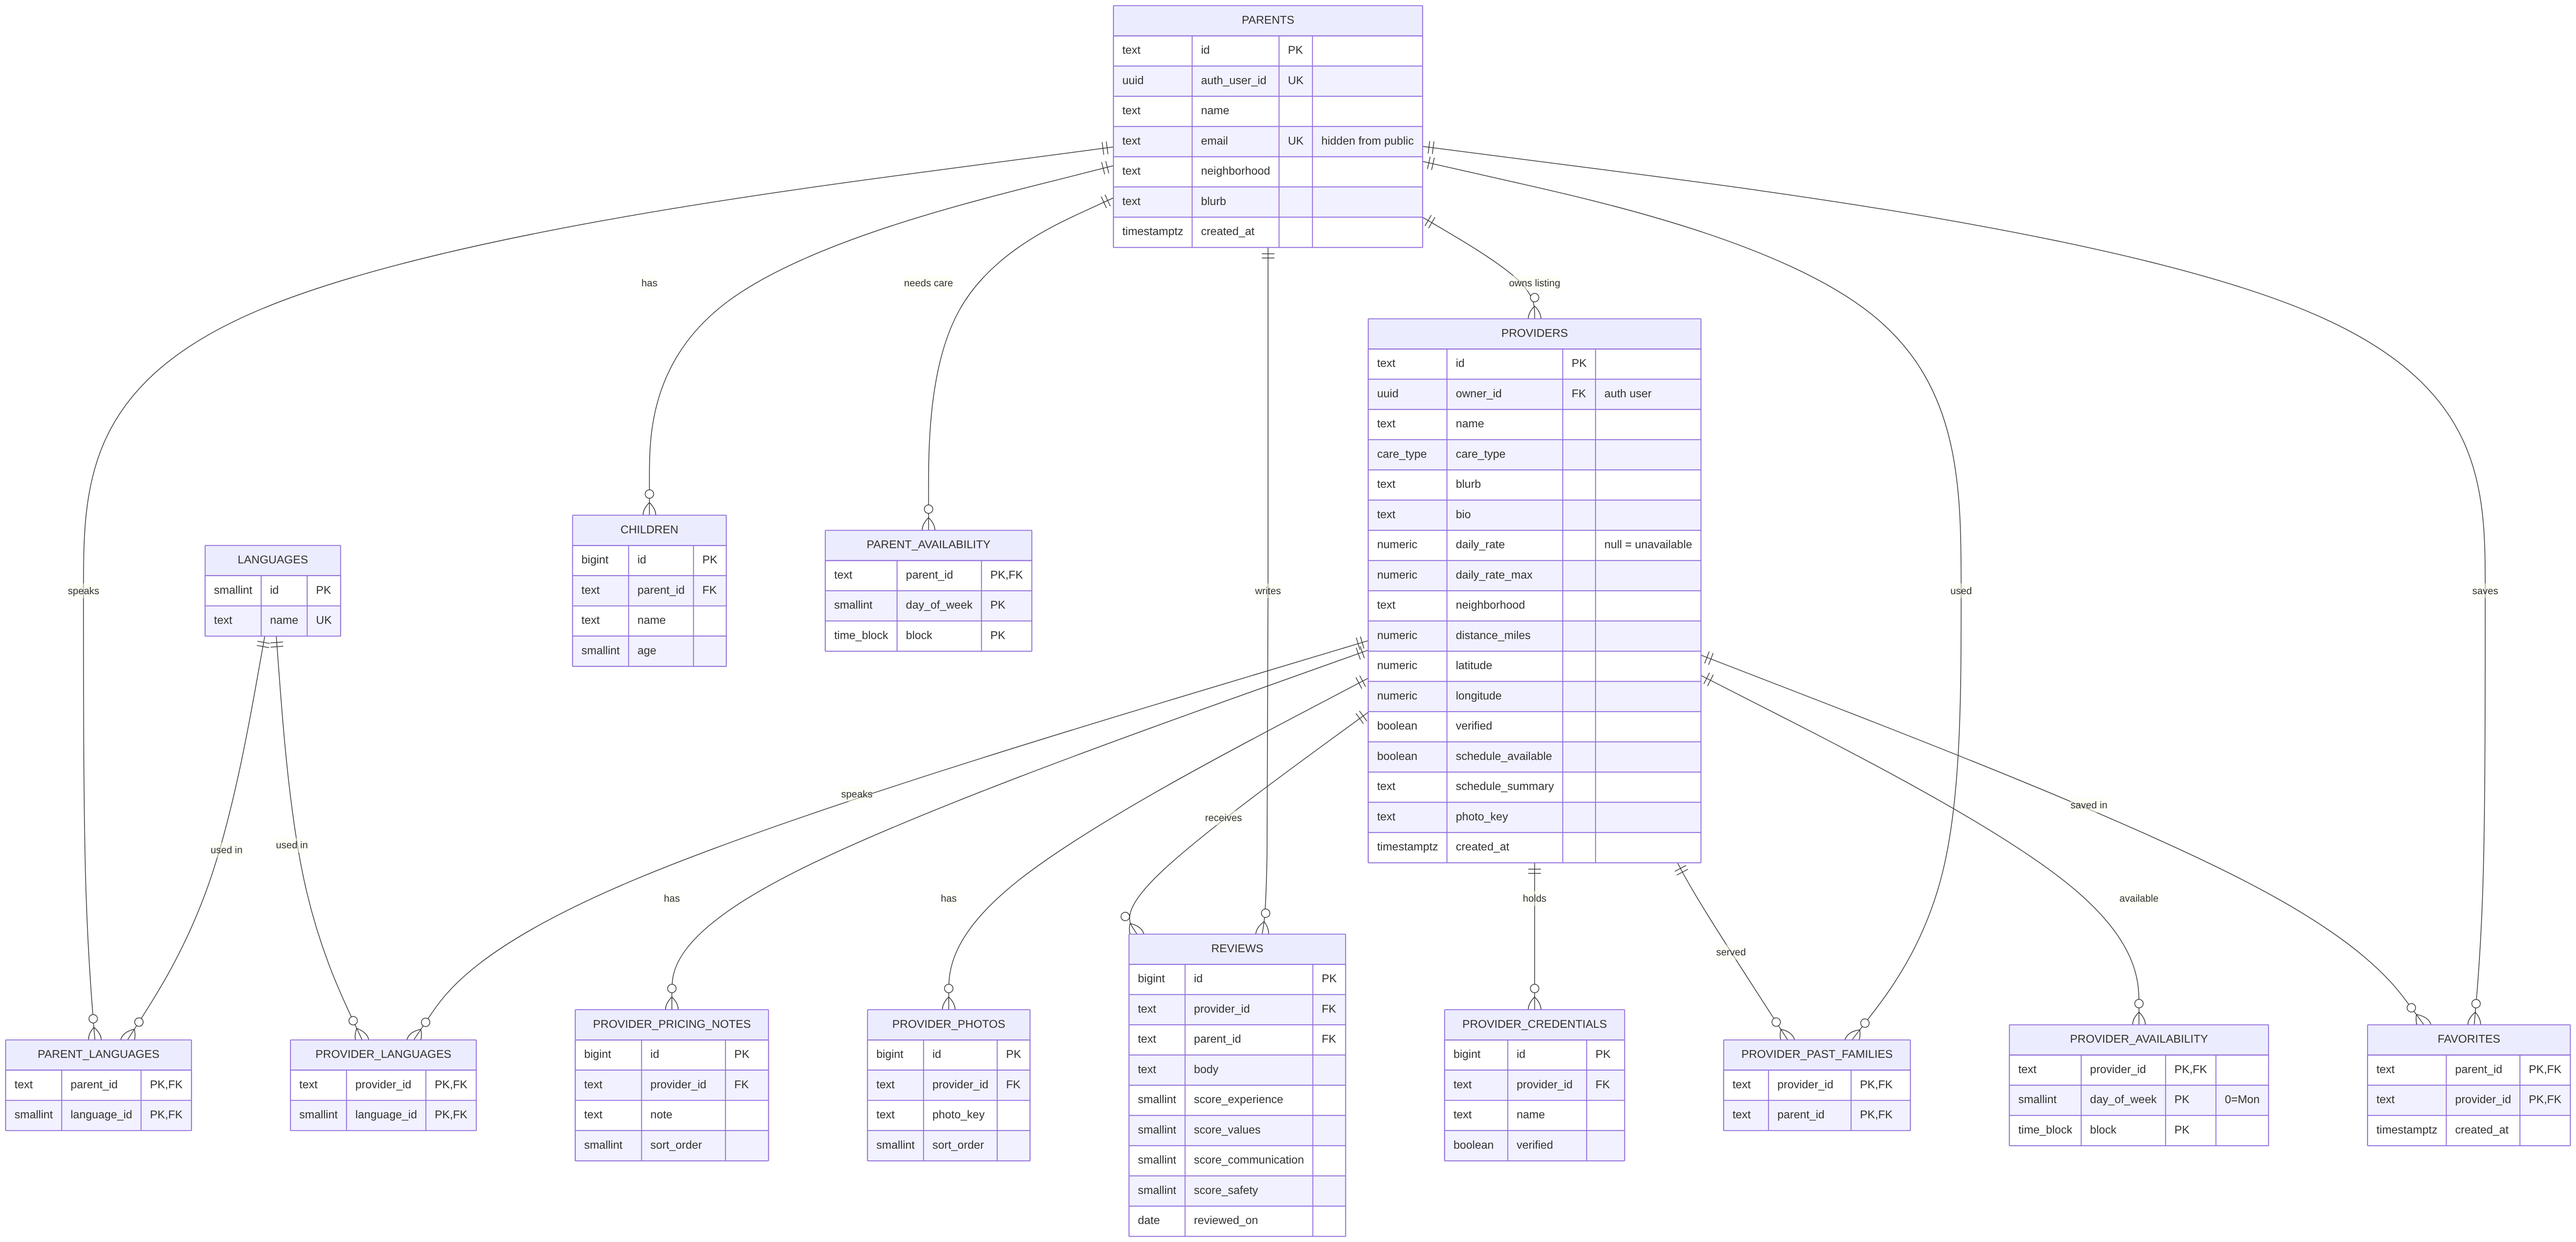
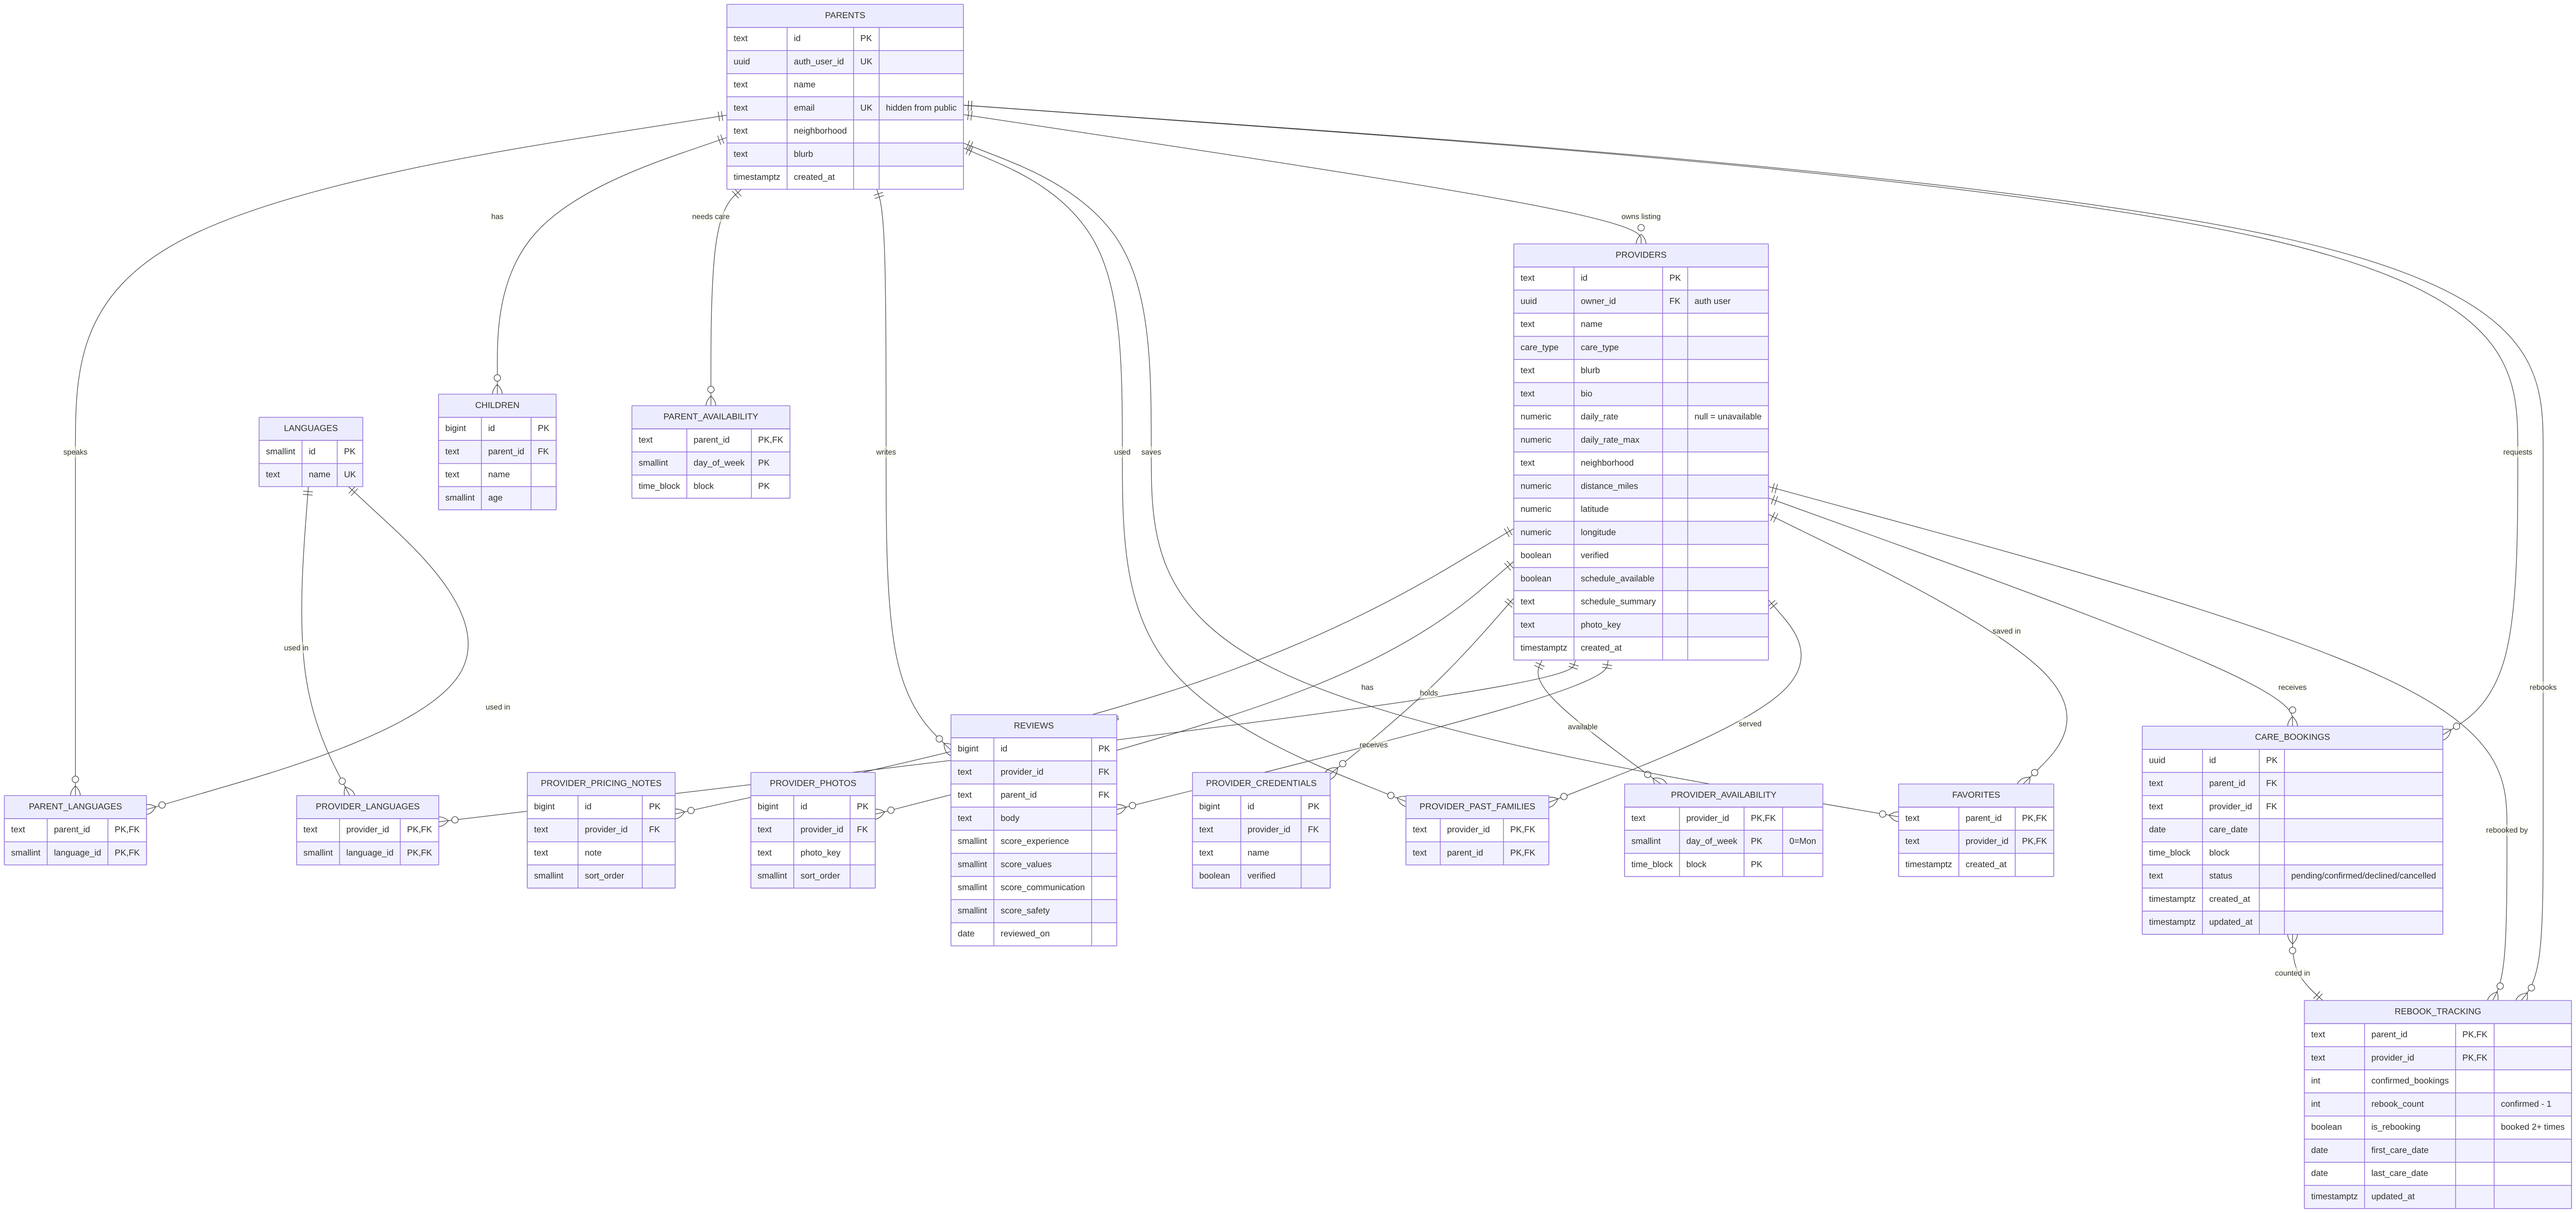
OKR 2: track how often families rebook providers
- New rebook_tracking table (one row per parent + provider), kept current by a
  trigger on care_bookings; counts confirmed bookings only
- Views provider_rebook_rates and parent_rebook_summary for rebook rates
- Read-only to the family and the listing owner; already applied to Supabase
- ERD diagram 4 (bookings and rebooking), full ERD and README updated

Claude-Session: https://claude.ai/code/session_01JU8U9S2RUymFV35Jiunmgu

diff --git a/README.md b/README.md
@@ -5,11 +5,11 @@
 
 ## App Summary
 
-Parents struggle to find child care that fits their family's specific needs because the options are scattered across provider websites, listings, and word-of-mouth recommendations. Every family weighs things differently: some need care that adapts to a constantly changing work schedule, some are priced out or surprised by extra fees, and some care most about trusting the people watching their children. The people who feel this most are working parents — especially shift workers, first-time parents, and bilingual households — who have to compare daycares, preschools, sitters, and family friends by hand. CareConnect puts price, schedule, and trust in one place. Parents filter providers by care type, price, distance, rating, verification, and language, and see each provider's daily cost (or a clear "pricing unavailable"). They save the hours they need care in a weekly calendar and the app shows exactly where a provider's availability overlaps or leaves gaps. Parents can read and write detailed ratings, save favorites and compare two or three side by side, while caregivers can publish their own listing.
+Parents struggle to find child care that fits their family's specific needs because the options are scattered across provider websites, listings, and word-of-mouth recommendations. Every family weighs things differently: some need care that adapts to a constantly changing work schedule, some are priced out or surprised by extra fees, and some care most about trusting the people watching their children. The people who feel this most are working parents — especially shift workers, first-time parents, and bilingual households — who have to compare daycares, preschools, sitters, and family friends by hand. CareConnect puts price, schedule, and trust in one place. Parents filter providers by care type, price, distance, rating, verification, and language, and see each provider's daily cost (or a clear "pricing unavailable"). They save the hours they need care in a weekly calendar and the app shows exactly where a provider's availability overlaps or leaves gaps. Parents can read and write detailed ratings, save favorites and compare two or three side by side, and request dated care blocks that providers confirm, while caregivers can publish their own listing.
 
 ## ERD
 
-Our database has 14 tables. To keep it readable, the ERD is split into three diagrams by feature. Together they show every table, every attribute, and every labeled relationship. A table drawn with only its `id` is detailed in another diagram. Click any image to open it full size.
+Our database has 16 tables. To keep it readable, the ERD is split into four diagrams by feature. Together they show every table, every attribute, and every labeled relationship. A table drawn with only its `id` is detailed in another diagram. Click any image to open it full size.
 
 **Key:** `PK` primary key · `FK` foreign key · `UK` unique · `||--o{` one-to-many (one on the bar side, zero-or-many on the crow's-foot side)
 
@@ -28,7 +28,12 @@ Reviews with four detailed scores, families who have used a provider, and saved 
 
 <a href="docs/erd-3-trust.png"><img src="docs/erd-3-trust.png" alt="ERD: reviews, provider past families, favorites" width="70%"></a>
 
-**Full diagram:** all 14 tables on one page are in [docs/erd.png](docs/erd.png) (zoom in to read). Diagram sources are the `docs/*.mmd` Mermaid files, and the SQL that builds the database is in [`supabase/setup.sql`](supabase/setup.sql).
+### 4. Bookings and rebooking
+Dated care requests that a provider confirms or declines, and the rebooking tracker built from them (OKR 2). `REBOOK_TRACKING` has no foreign key to `CARE_BOOKINGS`; a database trigger recalculates it whenever a booking changes.
+
+<a href="docs/erd-4-bookings.png"><img src="docs/erd-4-bookings.png" alt="ERD: care bookings and rebook tracking" width="100%"></a>
+
+**Full diagram:** all 16 tables on one page are in [docs/erd.png](docs/erd.png) (zoom in to read). Diagram sources are the `docs/*.mmd` Mermaid files, and the SQL that builds the database is [`supabase/setup.sql`](supabase/setup.sql) plus the files in [`supabase/migrations/`](supabase/migrations).
 
 ## Tech Stack
 
@@ -72,7 +77,7 @@ VITE_SUPABASE_PUBLISHABLE_KEY=sb_publishable_...
 ### Option C — Use your own Supabase database
 
 1. Create a project at [supabase.com](https://supabase.com).
-2. In the Supabase dashboard, open **SQL Editor → New query**, paste all of [`supabase/setup.sql`](supabase/setup.sql), and click **Run**. This creates the tables, demo data, the sign-up trigger, and the security rules.
+2. In the Supabase dashboard, open **SQL Editor → New query**, paste all of [`supabase/setup.sql`](supabase/setup.sql), and click **Run**. This creates the tables, demo data, the sign-up trigger, and the security rules. Then run each file in [`supabase/migrations/`](supabase/migrations) the same way, oldest first (care bookings, then rebook tracking). Never run `setup.sql` on a database with real users: it deletes and rebuilds the tables.
 3. In **Project Settings → API**, copy the Project URL and the publishable key into `.env` as `VITE_SUPABASE_URL` and `VITE_SUPABASE_PUBLISHABLE_KEY`.
 4. In **Authentication → URL Configuration**, set **Site URL** to where the app runs (e.g. your local URL or your Lovable URL) and add it under **Redirect URLs**. For quick testing, turn off **Confirm email** under **Authentication → Sign In / Providers → User Signups**.
 5. Run `npm run dev`.
@@ -95,6 +100,41 @@ The vertical slice is the **Add to favorites** button: UI → Supabase `favorite
 7. Click the heart again to remove it, then refresh. The heart stays empty and the row is gone from the table.
 
 Other actions that also save and survive a refresh: editing your schedule (**Schedule** page), editing your profile and children (**Profile** page), writing a review on a provider's profile, and creating a provider listing on **My listing**.
+
+## OKR 2: Rebooking Tracker
+
+**Goal:** show whether families keep coming back to the same provider.
+
+**Table:** `rebook_tracking` — one row per family + provider pair.
+
+| Column | Meaning |
+| --- | --- |
+| `confirmed_bookings` | How many of this family's bookings with this provider were confirmed |
+| `rebook_count` | Times they came back after the first booking (`confirmed_bookings − 1`) |
+| `is_rebooking` | `true` once a family has booked the same provider 2+ times |
+| `first_care_date` / `last_care_date` | Their first and most recent confirmed care dates |
+
+**How it updates:** automatically. A trigger on `care_bookings` recalculates the pair whenever a provider confirms a request or a family cancels one. Pending and declined requests don't count. Nobody can edit the table by hand, and each user can only read rows for their own family or their own listing.
+
+**Summary views:**
+- `provider_rebook_rates` — per provider: families booked, families who rebooked, and the rebook rate (%).
+- `parent_rebook_summary` — per family: providers booked, providers rebooked, and total rebookings.
+
+**Check it** in Supabase → **SQL Editor**:
+
+```sql
+-- Which providers do families come back to?
+select provider_name, families_booked, families_rebooked, rebook_rate_pct
+from provider_rebook_rates
+where families_booked > 0
+order by rebook_rate_pct desc;
+
+-- Overall rebook rate across the app
+select round(100.0 * count(*) filter (where is_rebooking) / nullif(count(*), 0), 1) as overall_rebook_rate_pct
+from rebook_tracking;
+```
+
+**To generate data:** a provider account creates a listing on **My listing** with weekly hours. A parent account opens that provider's page, uses **Request a care block** two or more times, and the provider confirms each request under **Schedule → Care requests**. The pair then shows `is_rebooking = true`. The SQL is in [`supabase/migrations/20261102000000_rebook_tracking.sql`](supabase/migrations/20261102000000_rebook_tracking.sql).
 
 ## Vertical Stack Demo
 [CareConnect Vertical Stack Demo](https://youtube.com/watch?v=2-67DQt3WOw)

diff --git a/docs/scheduling-backend.md b/docs/scheduling-backend.md
@@ -7,6 +7,7 @@ CareConnect stores two kinds of schedule data in Supabase:
 | Parent weekly need | `parent_availability` | Monday through Sunday, Morning/Afternoon/Evening blocks |
 | Provider weekly offer | `provider_availability` | Blocks a provider lists as available |
 | Dated care request | `care_bookings` | One parent requests one provider for a calendar date and block |
+| Rebooking tracker (OKR 2) | `rebook_tracking` | Confirmed bookings per parent + provider pair; `is_rebooking` once a family books the same provider twice. Updated by a trigger on `care_bookings`. Summaries: `provider_rebook_rates`, `parent_rebook_summary` |
 
 Supabase Auth identifies the signed-in user. A signup trigger creates their `parents` row and initial weekly schedule. The frontend loads their saved schedule on login. Provider schedules belong to the user who owns the listing. Row level security limits booking reads to the requesting parent and listing owner, and limits writes to the relevant participant.
 
